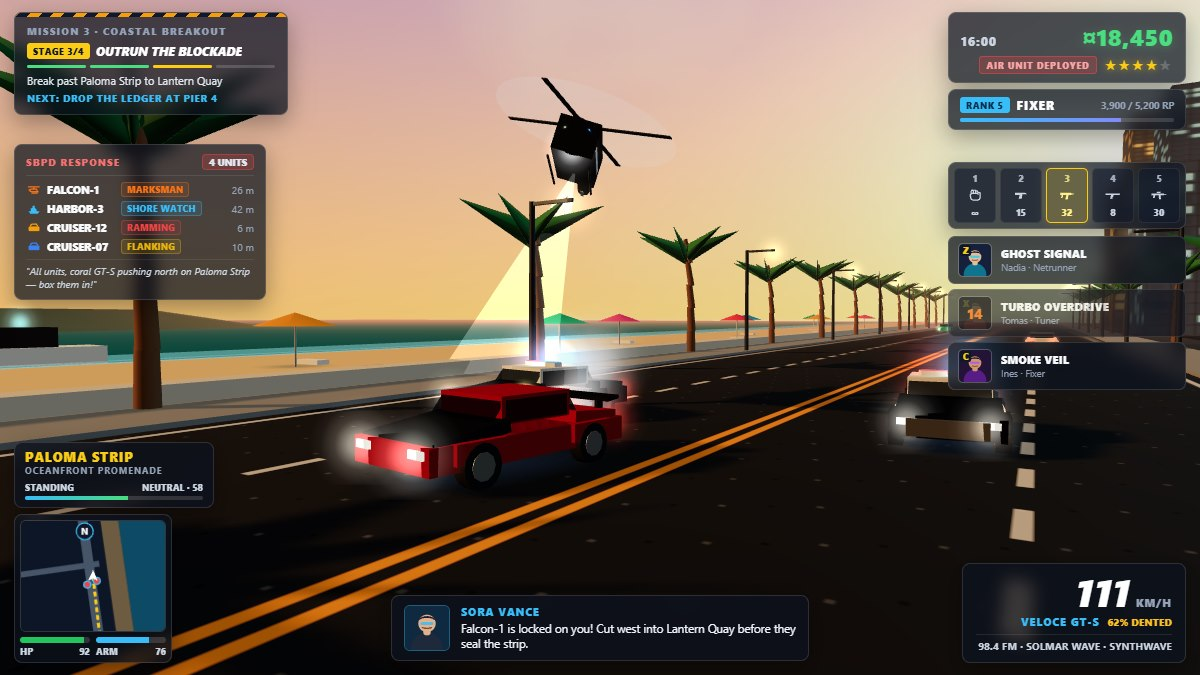
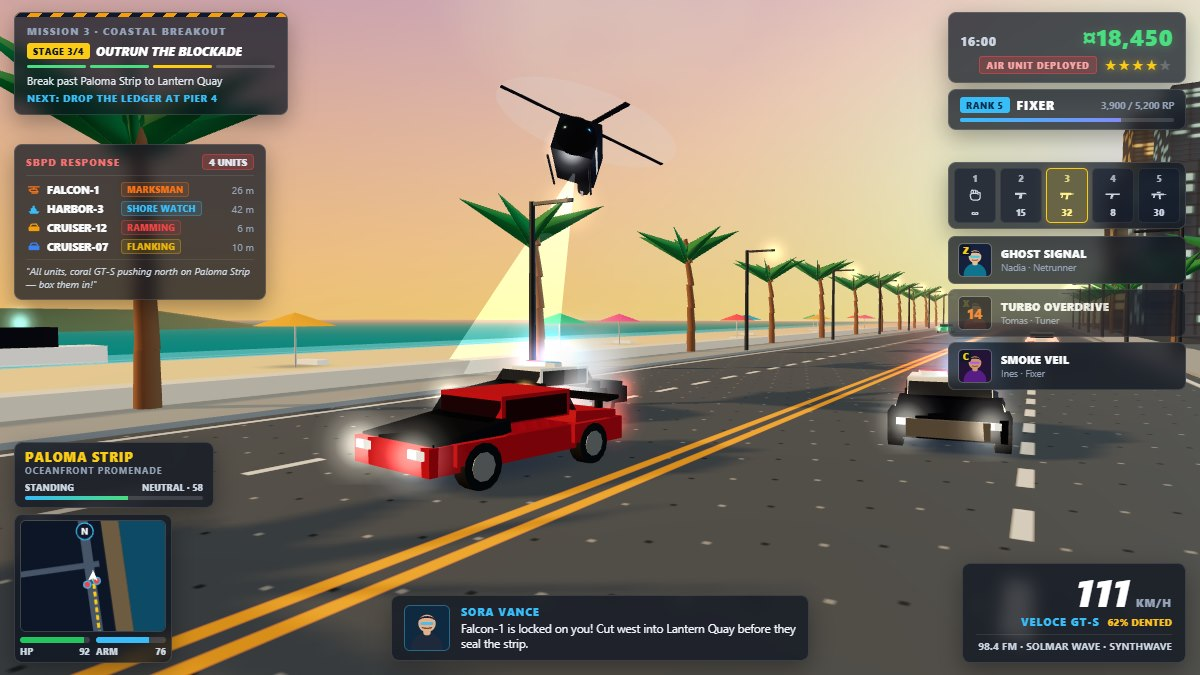
Tune golden-hour and night market lighting and helicopter framing

diff --git a/game/src/world.js b/game/src/world.js
@@ -300,14 +300,14 @@ function createRoadTexture() {
   c.width = 512;
   c.height = 512;
   const ctx = c.getContext('2d');
-  ctx.fillStyle = '#242933';
+  ctx.fillStyle = '#4f5968';
   ctx.fillRect(0, 0, 512, 512);
 
   // Subtle asphalt grain
   for (let i = 0; i < 4200; i++) {
     const x = (i * 73) % 512;
     const y = (i * 197) % 512;
-    ctx.fillStyle = i % 2 === 0 ? 'rgba(255,255,255,0.03)' : 'rgba(0,0,0,0.06)';
+    ctx.fillStyle = i % 2 === 0 ? 'rgba(255,255,255,0.05)' : 'rgba(0,0,0,0.06)';
     ctx.fillRect(x, y, 2, 2);
   }
 
@@ -359,10 +359,13 @@ export class World {
   }
 
   _buildLighting() {
-    this.hemiLight = new THREE.HemisphereLight(0xffd6a5, 0x2c3e50, 0.92);
+    this.ambientLight = new THREE.AmbientLight(0xffe6cc, 0.55);
+    this.scene.add(this.ambientLight);
+
+    this.hemiLight = new THREE.HemisphereLight(0xffe0b5, 0x4b5c74, 1.48);
     this.scene.add(this.hemiLight);
 
-    this.sunLight = new THREE.DirectionalLight(0xffb870, 2.35);
+    this.sunLight = new THREE.DirectionalLight(0xffc278, 2.85);
     this.sunLight.position.set(85, 52, -75);
     this.sunLight.castShadow = true;
     this.sunLight.shadow.mapSize.set(2048, 2048);
@@ -377,7 +380,7 @@ export class World {
     this.scene.add(this.sunLight);
 
     // Subtle cool rim fill from the ocean side
-    this.fillLight = new THREE.DirectionalLight(0x52c4e8, 0.55);
+    this.fillLight = new THREE.DirectionalLight(0x6ad4f2, 0.85);
     this.fillLight.position.set(-60, 35, 65);
     this.scene.add(this.fillLight);
   }
@@ -406,34 +409,38 @@ export class World {
     this.skyMat.needsUpdate = true;
 
     if (night) {
-      this.scene.fog.color.setHex(0x0b1224);
-      this.scene.fog.density = 0.0095;
-      this.hemiLight.color.setHex(0x6388c2);
-      this.hemiLight.groundColor.setHex(0x231c36);
-      this.hemiLight.intensity = 0.96;
-      this.sunLight.color.setHex(0x9ac0ff);
-      this.sunLight.intensity = 1.1;
+      this.scene.fog.color.setHex(0x101a32);
+      this.scene.fog.density = 0.0082;
+      this.ambientLight.color.setHex(0x6f8bc2);
+      this.ambientLight.intensity = 0.62;
+      this.hemiLight.color.setHex(0x7ca2de);
+      this.hemiLight.groundColor.setHex(0x32294a);
+      this.hemiLight.intensity = 1.25;
+      this.sunLight.color.setHex(0xa8cbff);
+      this.sunLight.intensity = 1.45;
       this.sunLight.position.set(-55, 65, 45);
-      this.fillLight.color.setHex(0xff9a52);
-      this.fillLight.intensity = 0.78;
-      this.oceanMat.color.setHex(0x082a3e);
+      this.fillLight.color.setHex(0xffaa62);
+      this.fillLight.intensity = 1.05;
+      this.oceanMat.color.setHex(0x0c3852);
       this.lanternGlows.forEach((s) => { s.material.opacity = 0.96; });
       this.streetLights.forEach((s) => { s.material.opacity = 0.88; });
-      if (this.marketPoint1) this.marketPoint1.intensity = 28;
-      if (this.marketPoint2) this.marketPoint2.intensity = 24;
-      if (this.marketPoint3) this.marketPoint3.intensity = 20;
+      if (this.marketPoint1) this.marketPoint1.intensity = 38;
+      if (this.marketPoint2) this.marketPoint2.intensity = 34;
+      if (this.marketPoint3) this.marketPoint3.intensity = 28;
     } else {
-      this.scene.fog.color.setHex(0xdf946d);
-      this.scene.fog.density = 0.0044;
-      this.hemiLight.color.setHex(0xffd8aa);
-      this.hemiLight.groundColor.setHex(0x3a465c);
-      this.hemiLight.intensity = 0.95;
-      this.sunLight.color.setHex(0xffb468);
-      this.sunLight.intensity = 2.45;
+      this.scene.fog.color.setHex(0xe8a47c);
+      this.scene.fog.density = 0.0040;
+      this.ambientLight.color.setHex(0xffe6cc);
+      this.ambientLight.intensity = 0.58;
+      this.hemiLight.color.setHex(0xffe2b8);
+      this.hemiLight.groundColor.setHex(0x52647e);
+      this.hemiLight.intensity = 1.52;
+      this.sunLight.color.setHex(0xffc278);
+      this.sunLight.intensity = 2.85;
       this.sunLight.position.set(85, 46, -72);
-      this.fillLight.color.setHex(0x52c4e8);
-      this.fillLight.intensity = 0.58;
-      this.oceanMat.color.setHex(0x0f8fa6);
+      this.fillLight.color.setHex(0x6ad4f2);
+      this.fillLight.intensity = 0.88;
+      this.oceanMat.color.setHex(0x14a4bd);
       this.lanternGlows.forEach((s) => { s.material.opacity = 0.45; });
       this.streetLights.forEach((s) => { s.material.opacity = 0.25; });
       if (this.marketPoint1) this.marketPoint1.intensity = 4;
@@ -538,7 +545,7 @@ export class World {
     this.scene.add(westWalk);
 
     // Cross avenues heading inland
-    const crossMat = new THREE.MeshStandardMaterial({ color: 0x262c36, roughness: 0.82 });
+    const crossMat = new THREE.MeshStandardMaterial({ color: 0x4b5563, roughness: 0.82 });
     [-110, -35, 45, 125].forEach((z) => {
       const cross = new THREE.Mesh(new THREE.PlaneGeometry(180, 14), crossMat);
       cross.rotation.x = -Math.PI / 2;
@@ -666,10 +673,28 @@ export class World {
   }
 
   _buildNightMarket() {
-    // Lantern Quay Night Market plaza around x: -64..-22, z: 32..88
+    // Tiled Lantern Quay Night Market plaza around x: -64..-22, z: 32..88
+    const tc = document.createElement('canvas');
+    tc.width = 256;
+    tc.height = 256;
+    const tctx = tc.getContext('2d');
+    tctx.fillStyle = '#333d50';
+    tctx.fillRect(0, 0, 256, 256);
+    tctx.strokeStyle = 'rgba(15, 23, 42, 0.55)';
+    tctx.lineWidth = 3;
+    for (let i = 0; i <= 256; i += 32) {
+      tctx.beginPath(); tctx.moveTo(i, 0); tctx.lineTo(i, 256); tctx.stroke();
+      tctx.beginPath(); tctx.moveTo(0, i); tctx.lineTo(256, i); tctx.stroke();
+    }
+    const tileTex = new THREE.CanvasTexture(tc);
+    tileTex.colorSpace = THREE.SRGBColorSpace;
+    tileTex.wrapS = THREE.RepeatWrapping;
+    tileTex.wrapT = THREE.RepeatWrapping;
+    tileTex.repeat.set(8, 10);
+
     const plaza = new THREE.Mesh(
       new THREE.PlaneGeometry(46, 56),
-      new THREE.MeshStandardMaterial({ color: 0x1e2430, roughness: 0.42, metalness: 0.18 })
+      new THREE.MeshStandardMaterial({ map: tileTex, roughness: 0.48, metalness: 0.14 })
     );
     plaza.rotation.x = -Math.PI / 2;
     plaza.position.set(-44, 0.02, 60);

diff --git a/game/src/entities.js b/game/src/entities.js
@@ -196,7 +196,7 @@ export function createVehicleMesh(type = 'hero', bodyColor = 0xe84a38) {
 
 export function createPoliceHelicopter() {
   const root = new THREE.Group();
-  const bodyMat = new THREE.MeshStandardMaterial({ color: 0x151d2e, metalness: 0.45, roughness: 0.32 });
+  const bodyMat = new THREE.MeshStandardMaterial({ color: 0x24334d, metalness: 0.42, roughness: 0.34 });
   const stripeMat = new THREE.MeshStandardMaterial({ color: 0xf8fafc, roughness: 0.4 });
   const glassMat = new THREE.MeshStandardMaterial({
     color: 0x163854,
